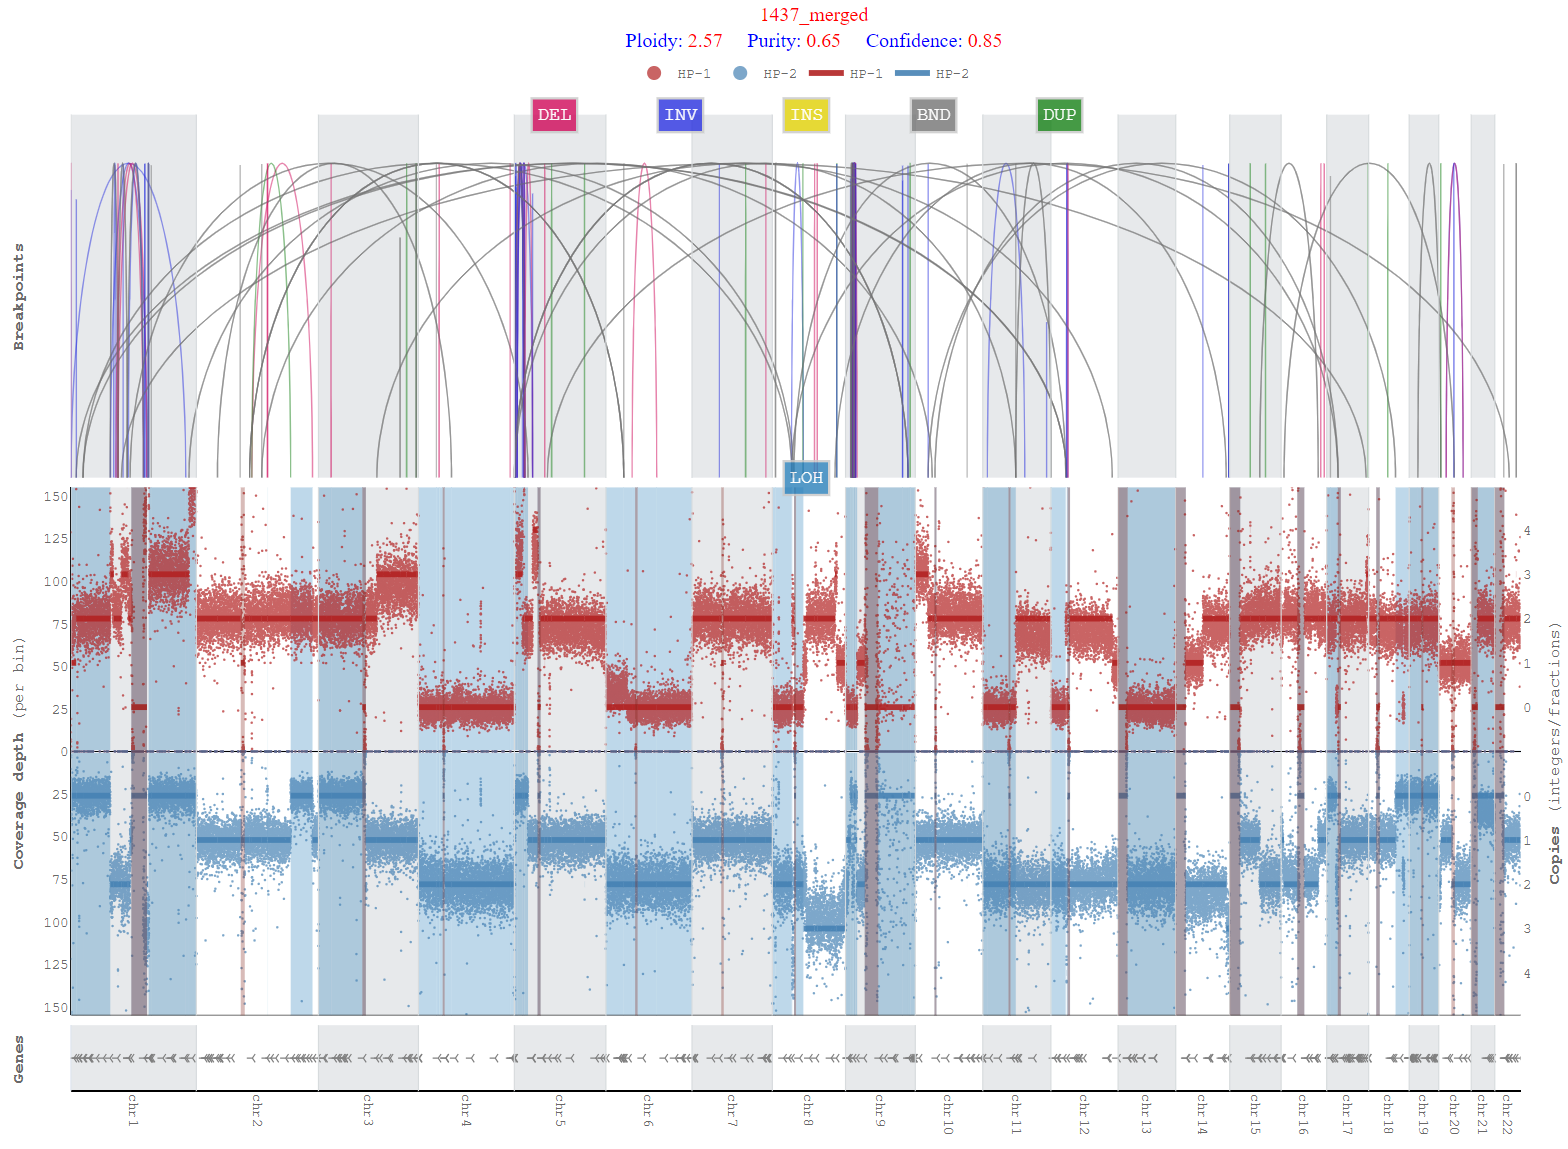
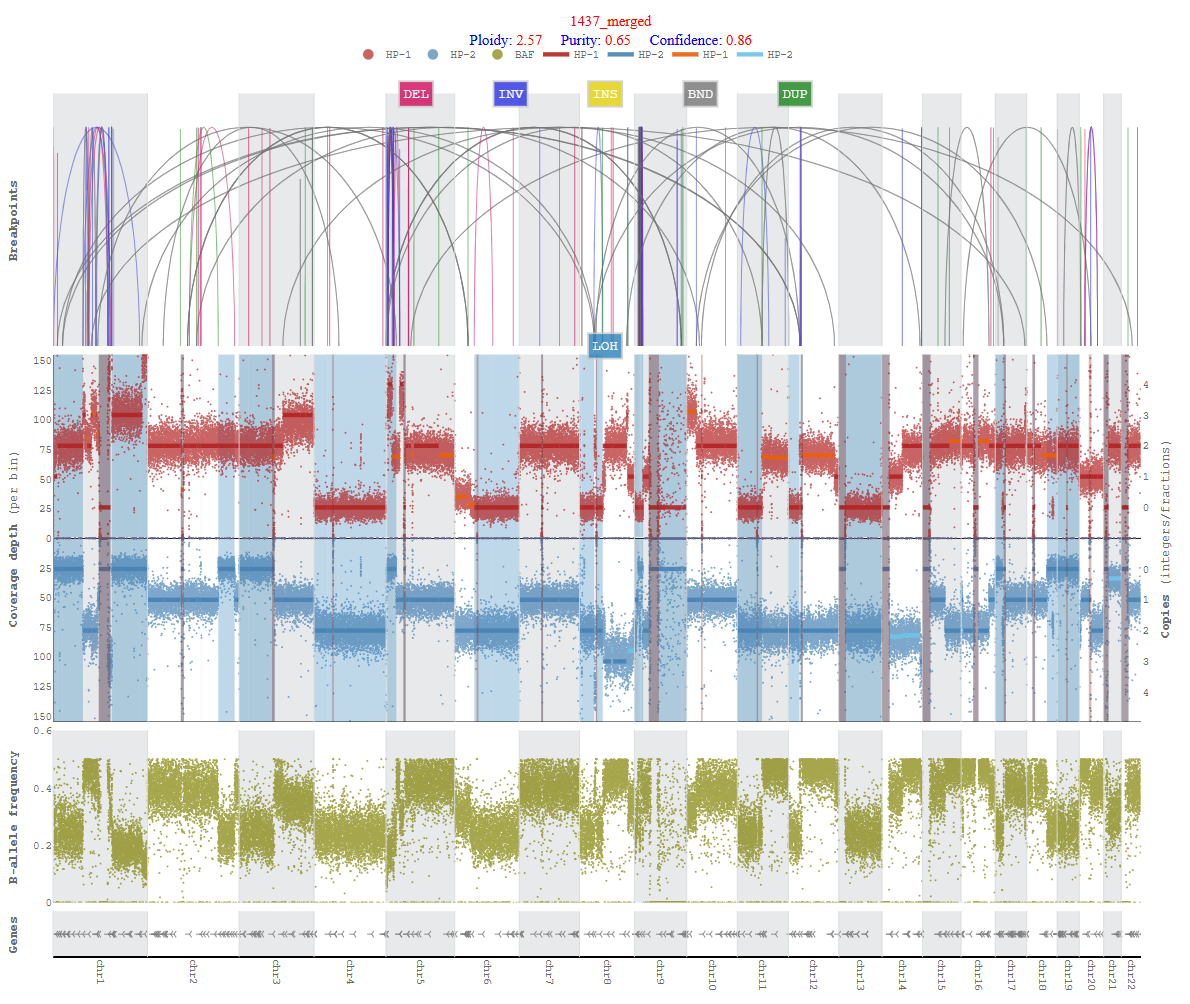
B-alelle plot and some other updates

diff --git a/src/plots.py b/src/plots.py
@@ -2589,7 +2589,7 @@ def genes_copy_number_plots_genome(centers, integer_fractional_centers, df_cnr_h
                             row = 1,
                             col = 1,
                             )
-                    fig.add_annotation(x=offset_chroms+genes_starts[i], y=-args.cut_threshold,
+                    fig.add_annotation(x=offset_chroms+genes_starts[i], y=centers[1],
                                        text=genes_name[i],
                                        showarrow=False,
                                        yshift=10)
@@ -2638,7 +2638,7 @@ def genes_copy_number_plots_genome(centers, integer_fractional_centers, df_cnr_h
             OFFSET = args.cut_threshold/150
             colors = ['firebrick', 'steelblue']
         haplotype_1_copyratios_values = [x if x == 'None' else x  for x in haplotype_1_copyratios_values]
-        haplotype_2_copyratios_values = [x if x == 'None' else x for x in haplotype_2_copyratios_values]
+        haplotype_2_copyratios_values = [x if x == 'None' else x + OFFSET for x in haplotype_2_copyratios_values]
         name = "Copynumbers"
 
         add_scatter_trace_copyratios(args, fig, colors, name, haplotype_1_copyratios_positions, haplotype_2_copyratios_positions, haplotype_1_copyratios_values, haplotype_2_copyratios_values, df_segs_hp1, df_segs_hp2, mul_cols=True, row=1, visibility='legendonly')

diff --git a/src/main.py b/src/main.py
@@ -487,7 +487,6 @@ if __name__ == "__main__":
 
 #means/medians chr6 in guest sample
 
-#Mike's genes plots
 #first copy adjustment
 #cpd inside centromeres regions
 
